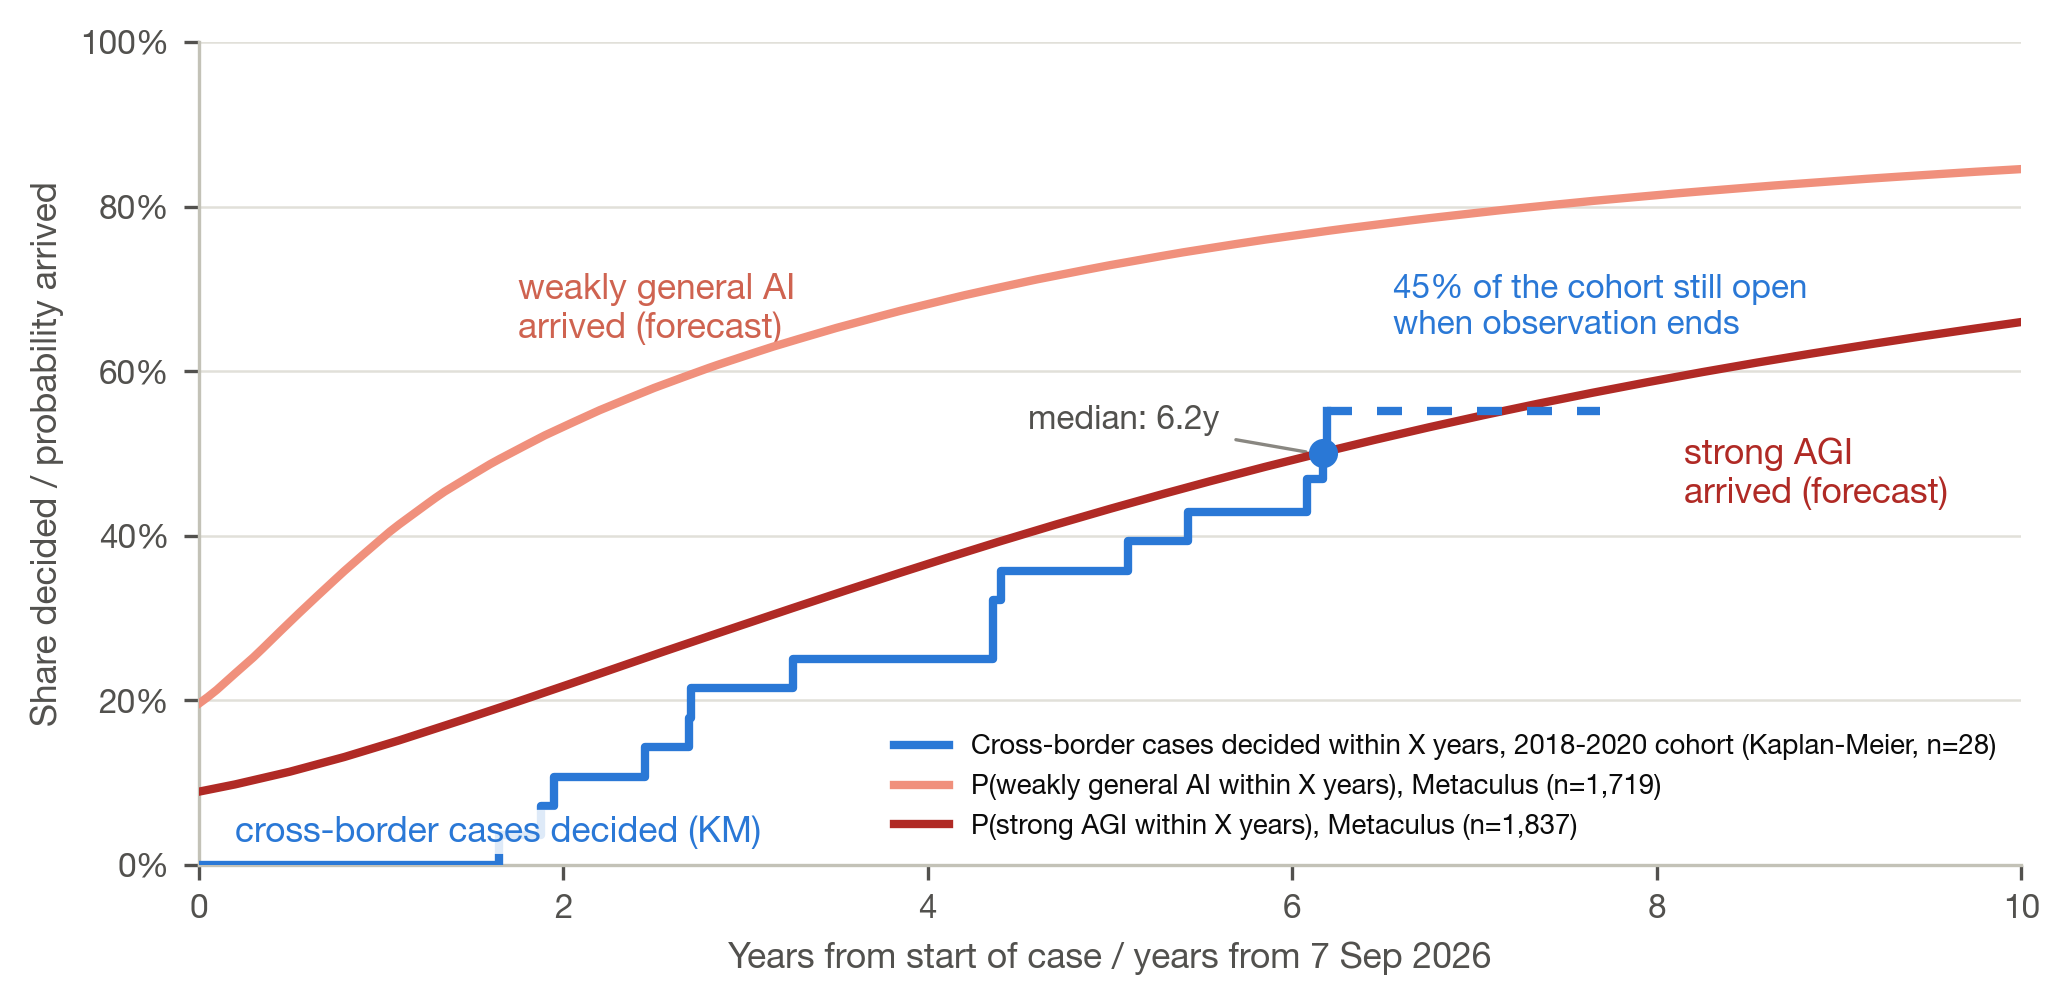
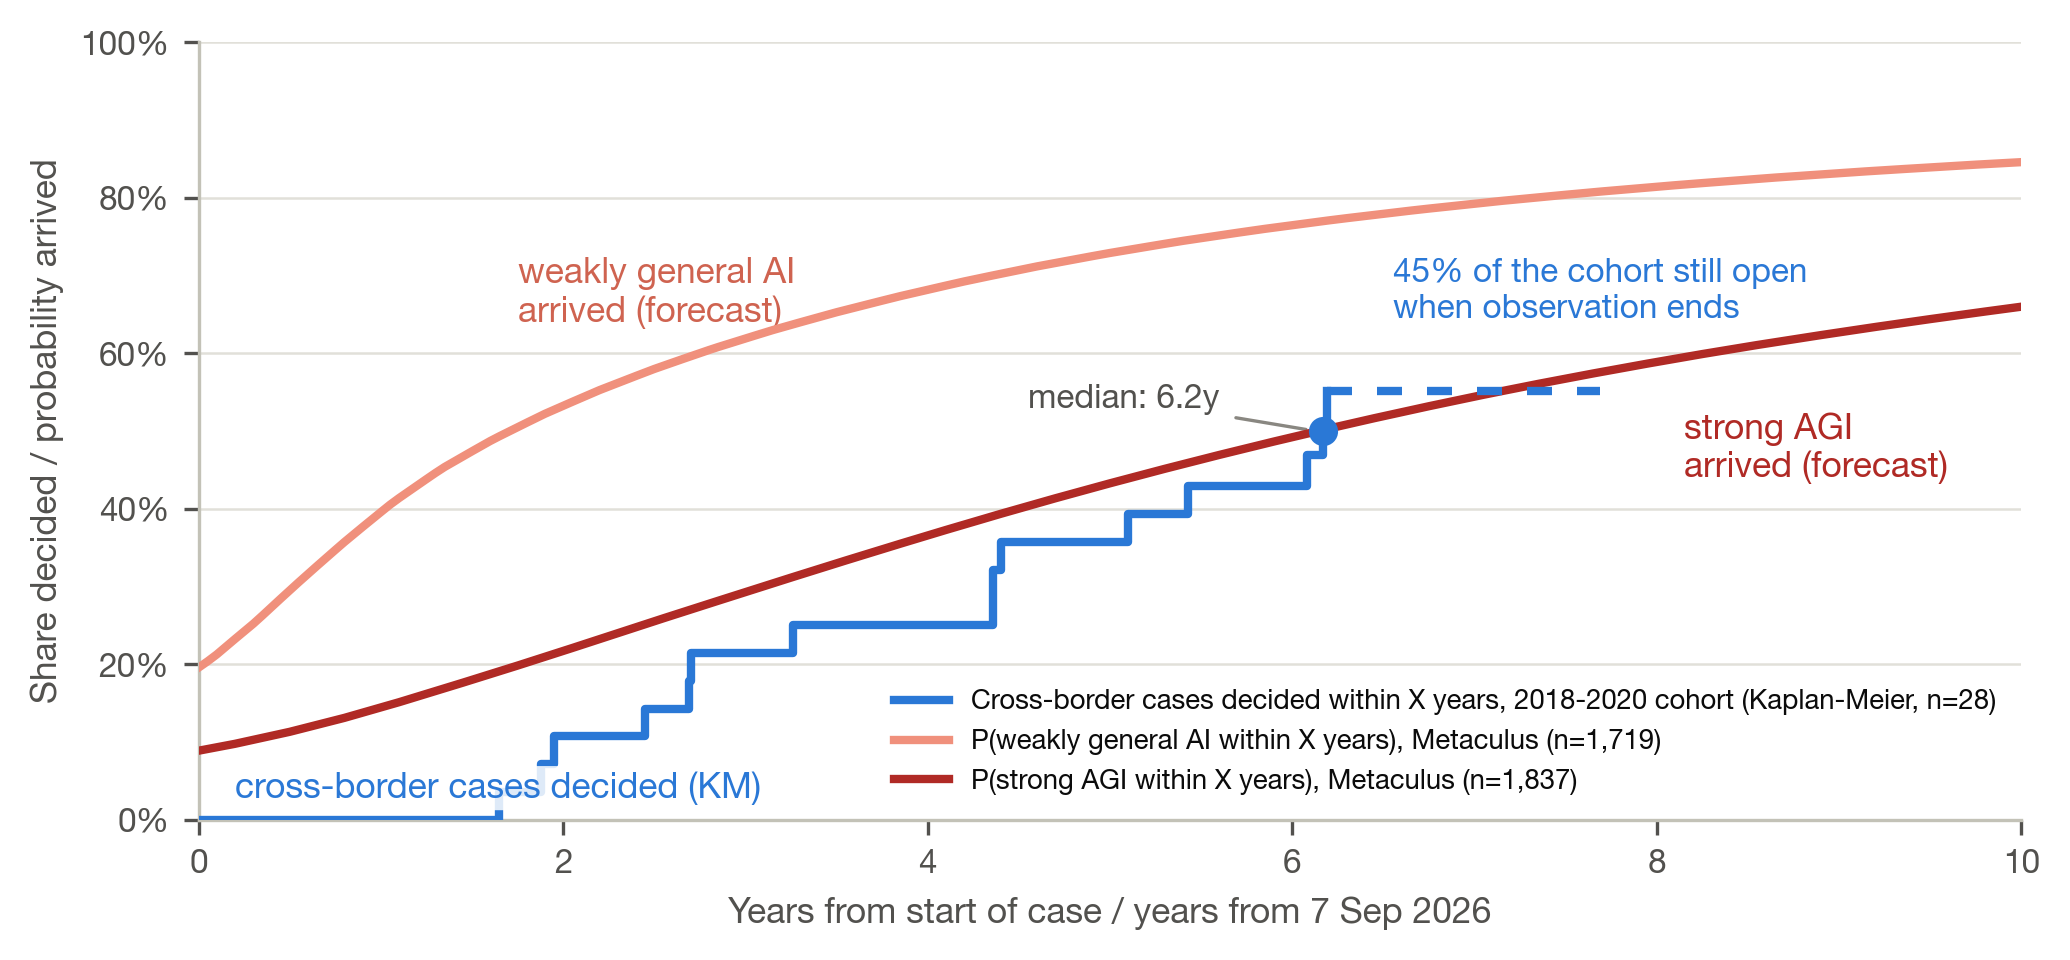
Slightly shorter race figure for layout
Claude-Session: https://claude.ai/code/session_01UqFtqNHyTcQiCVwBmBH9tg

diff --git a/scripts/analyze.py b/scripts/analyze.py
@@ -266,7 +266,7 @@ plt.close(fig)
 json.dump(S, open(os.path.join(OUT, 'stats.json'), 'w'), indent=1)
 
 # ---------- figure 1: the race (KM incidence vs AGI forecast CDFs) ----------
-fig, ax = plt.subplots(figsize=(7.0, 3.45), dpi=300)
+fig, ax = plt.subplots(figsize=(7.0, 3.3), dpi=300)
 xs = [i / 20 for i in range(0, 201)]  # 0..10 years
 p_strong = [strong.p_by_years(x) for x in xs]
 p_weak = [weak.p_by_years(x) for x in xs]
